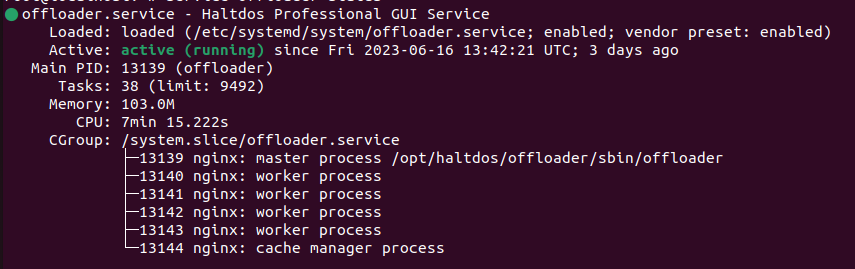
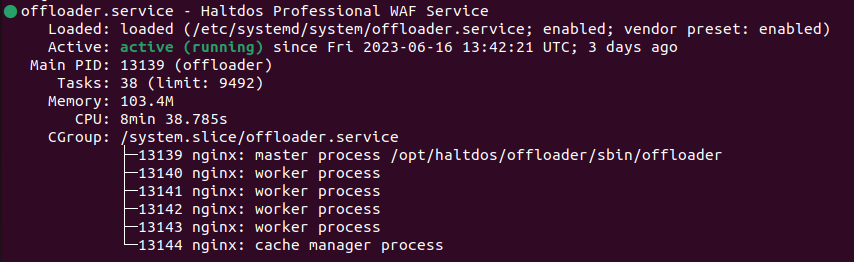
f

Changed region(s): [[0.0304, 0.3664, 0.8525, 0.9771], [0.0, 0.0, 0.9742, 0.3664]]

diff --git a/docs/professional/getting-started/installation.md b/docs/professional/getting-started/installation.md
@@ -35,10 +35,14 @@ sudo service controller status
 
 
 ```
-$ sudo service offloader status
+sudo service offloader status
 ```
 
-![haltdos](/img/pro-waf/docs/offloader.png)
+:::note Note 
+**Haltdos Professional WAF Service** at start will be at loaded state. It will be in active and running state, once the whole registration of the instance is done
+:::
+
+![haltdos](/img/pro-waf/docs/offloader_status.png)
 
 
 ### Step 3: Account Registration
@@ -62,7 +66,11 @@ If the user is configuring another instance, they will be redirected to the Logi
 
 ![step 3](/img/pro-waf/docs/step3.png)
 
-After the user has entered their details, the payment page below will be displayed. On this page, the user needs to enter their card details and click on the **Save Card** button.
+After the user has entered their details, user will be redirected to a payment gateway. A minimal amount transaction will take place to save the card, which will be refunded back by the card provider/bank. Card must be saved because Haltdos Professional WAF follows a usage based pricing. User will be charged at the end of the monthly billing period, based on the no. of requests that was processed by WAF in that billing period. User has to enter their credit card details and click on the **Save Card** button of the payment gateway.
+
+:::note Note
+Kindly only save Credit Cards. Any other form of cards can be saved, but these won't be processed and will lead to failure of registration of Professional WAF.
+:::
 
 ![payment page](/img/pro-waf/docs/payment.png)
 
@@ -70,14 +78,28 @@ Once the payment procedure is completed, the user will be prompted to enter thei
 
 ![step 4](/img/pro-waf/docs/step4.png)
 
-You have successfully subscribed to **Haltdos Professional WAF**.
+You have successfully subscribed to **Haltdos Professional Edition** and have registered your instance. You can verify your registration by checking if the Haltdos Professional WAF service is running.
+
+```
+sudo service offloader status
+```
+
+![haltdos](/img/pro-waf/docs/offloader.png)
+
+:::info CAUTION
+If the service is still shown as loaded and inactive, or if you face any other kind of issue, please contact [**Haltdos Support**](mailto:support@haltdos.com)
+:::
 
 ### Step 4: Accesing Haltdos Professional GUI
 
-Login to the Haltdos Professional GUI using the credentials provided during step 4 of the registration process.
+Login to the **GUI Console**, at **https://<SERVER_IP>:9000** using the credentials provided during the step 4 of the registration process.
 
 ![login](/img/pro-waf/docs/login.png)
 
-If the entered login credentials are correct, the overview page below will be visible to you.
+If provided login credentials are correct, you will be redirected to the Overview page, as visible below. Now you can start exploring **Haltdos Professional WAF**.  
 
 ![overview](/img/pro-waf/docs/overview.png)
+
+:::note Note
+Professional WAF Billing is a Monthly Subscription, whose billing period will start on the day of registering your first instance.
+:::

diff --git a/docs/professional/introduction.md b/docs/professional/introduction.md
@@ -12,9 +12,3 @@ Websites have evolved into the major channel via which most organizations commun
 A **Web Application Firewall (WAF)**, as opposed to a Network Firewall, filters traffic on internet-facing web applications, including APIs. A **WAF** is especially useful for a firm that offers an e-commerce site, online financial services, or any other form of web-based product or service that involves contacts with clients or business partner. **WAF** can be extremely beneficial in avoiding fraud and data breaches in these situations.
 
 ![haltdos](/img/ce-waf/docs/waf.png)  
-
-A **WAF** can take two approaches to analyzing and filtering the content contained in these HTTP requests or a hybrid combination of the two:  
-
-- **Whitelisting**: A whitelisting approach means that the WAF will deny all requests by default and allow only requests that are known to be trusted. It provides a list of what IP addresses are known to be safe.  
-
-- **Blacklisting**: A blacklisting approach defaults to letting packets through and uses preset signatures to block malicious web traffic and protect vulnerabilities of websites or web applications.

diff --git a/docs/community/features.md b/docs/community/features.md
@@ -1,5 +1,5 @@
 ---
-sidebar_position: 2
+sidebar_position: 1
 sidebar_label: Features
 ---
 
